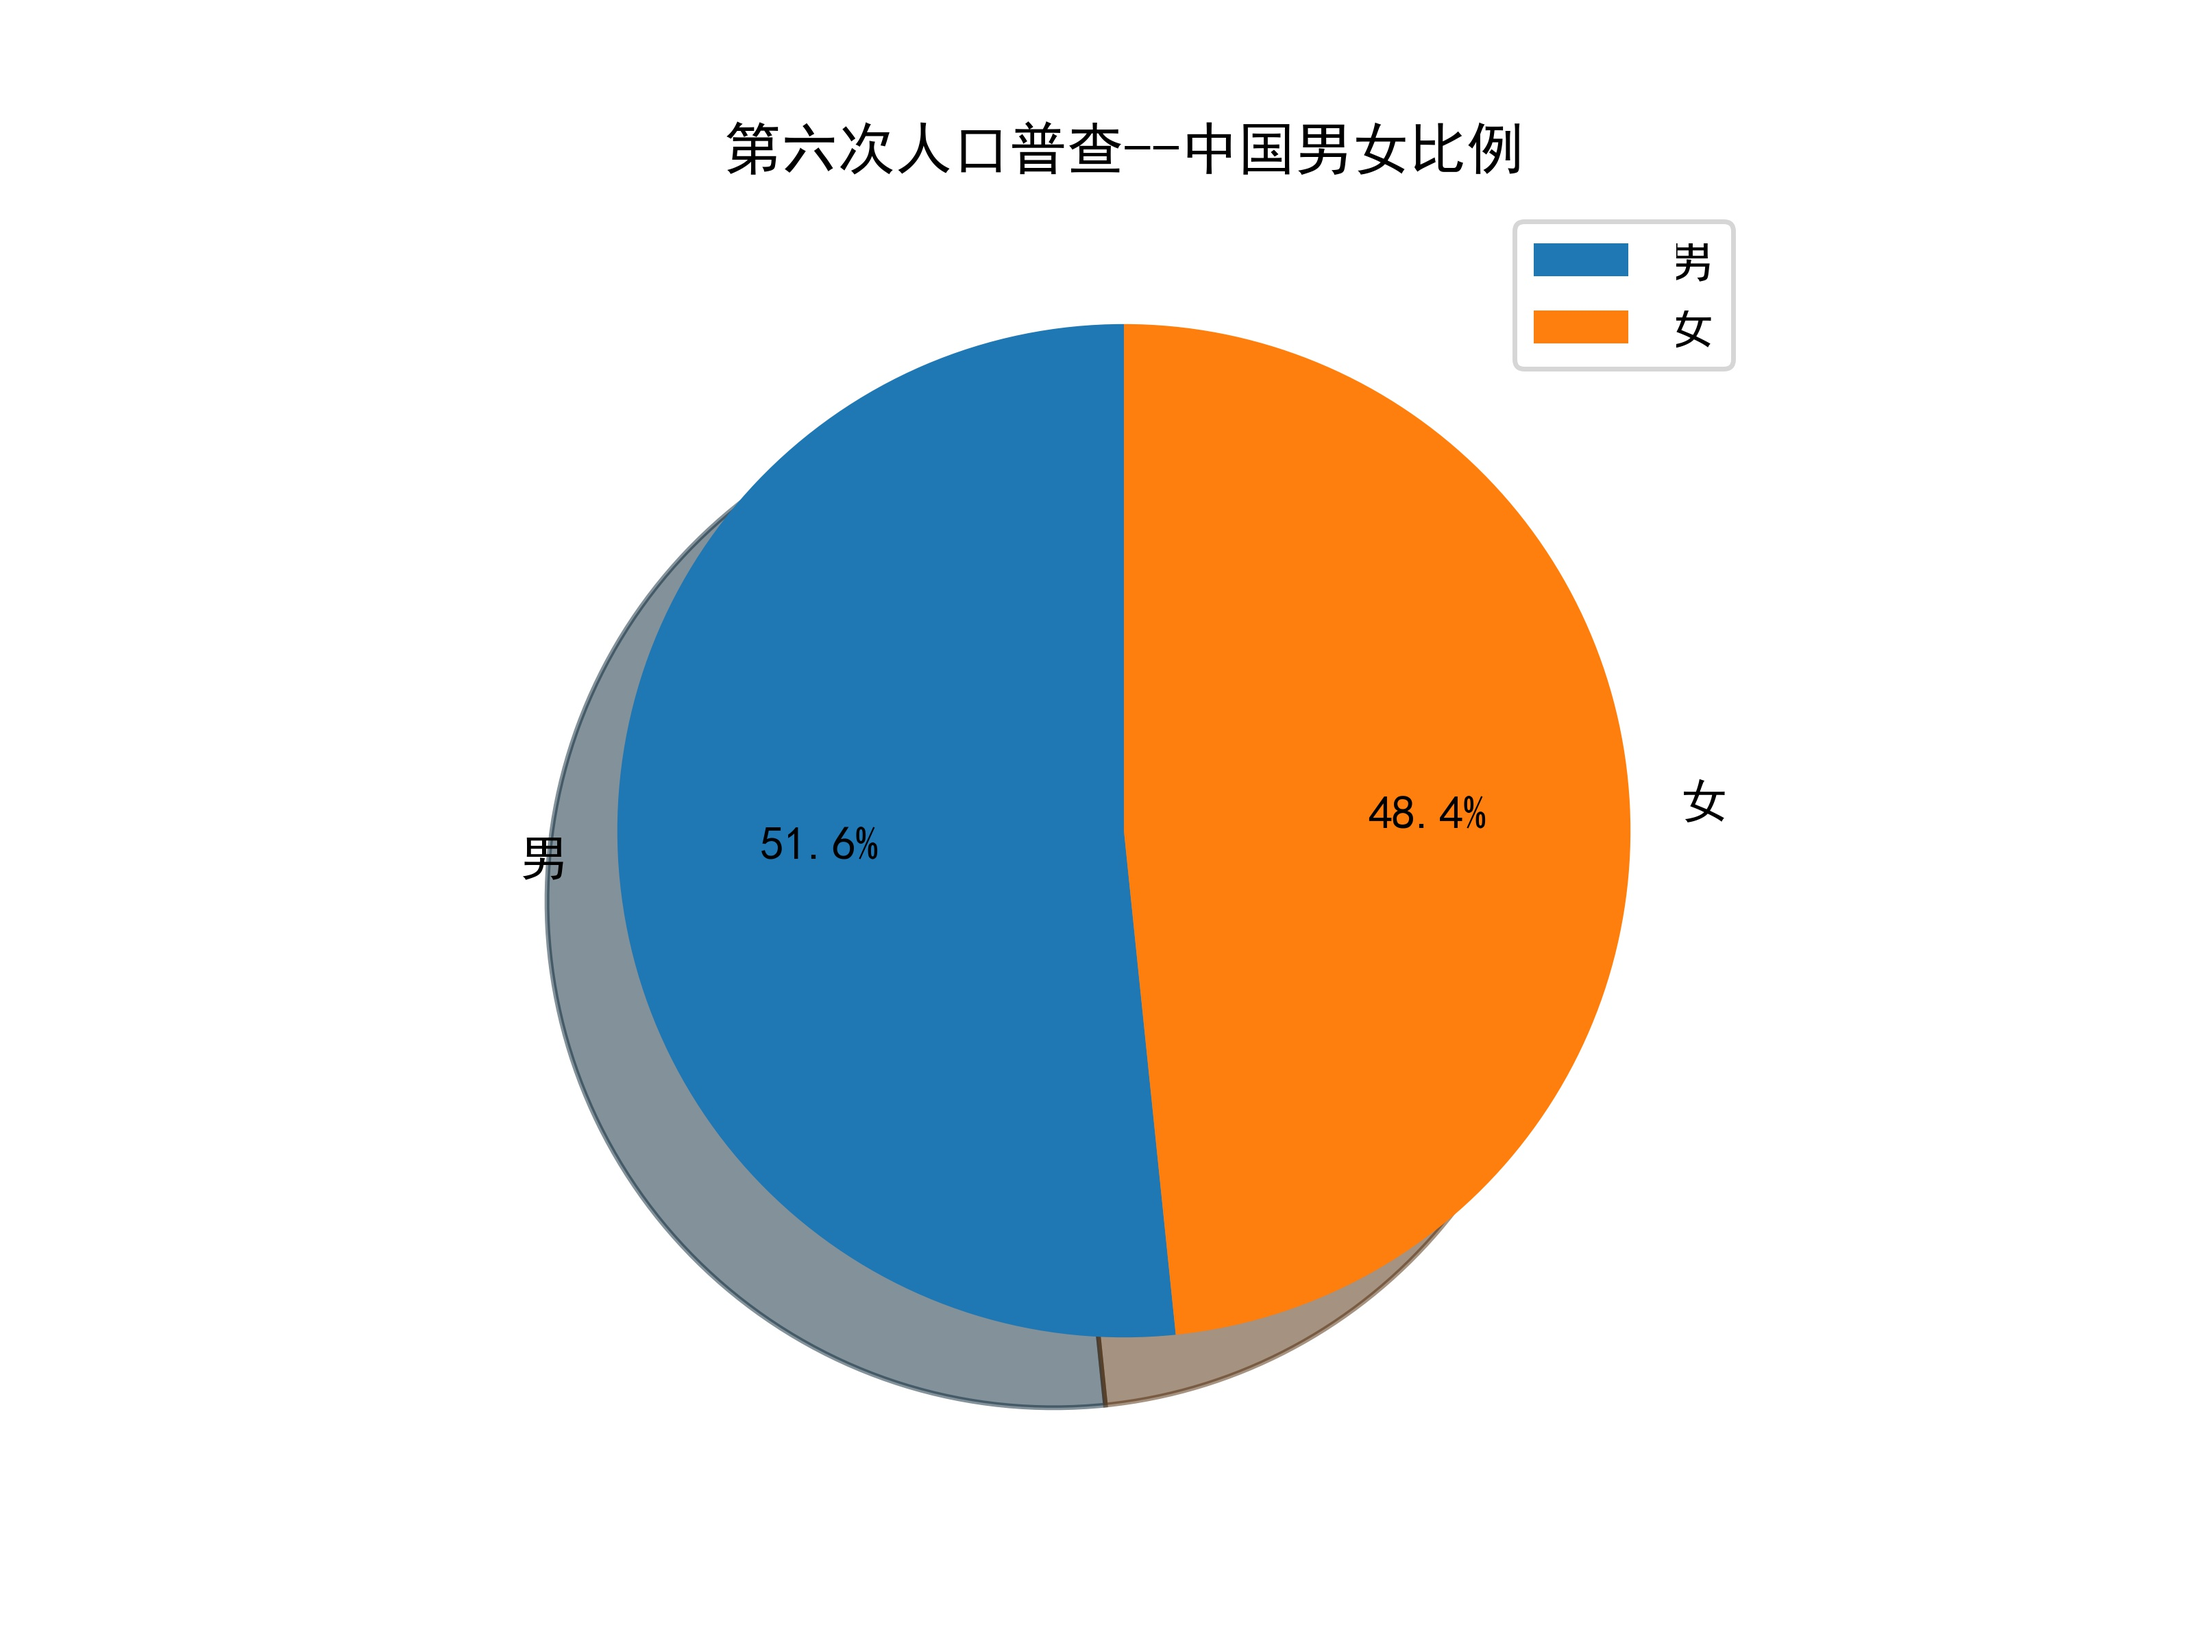
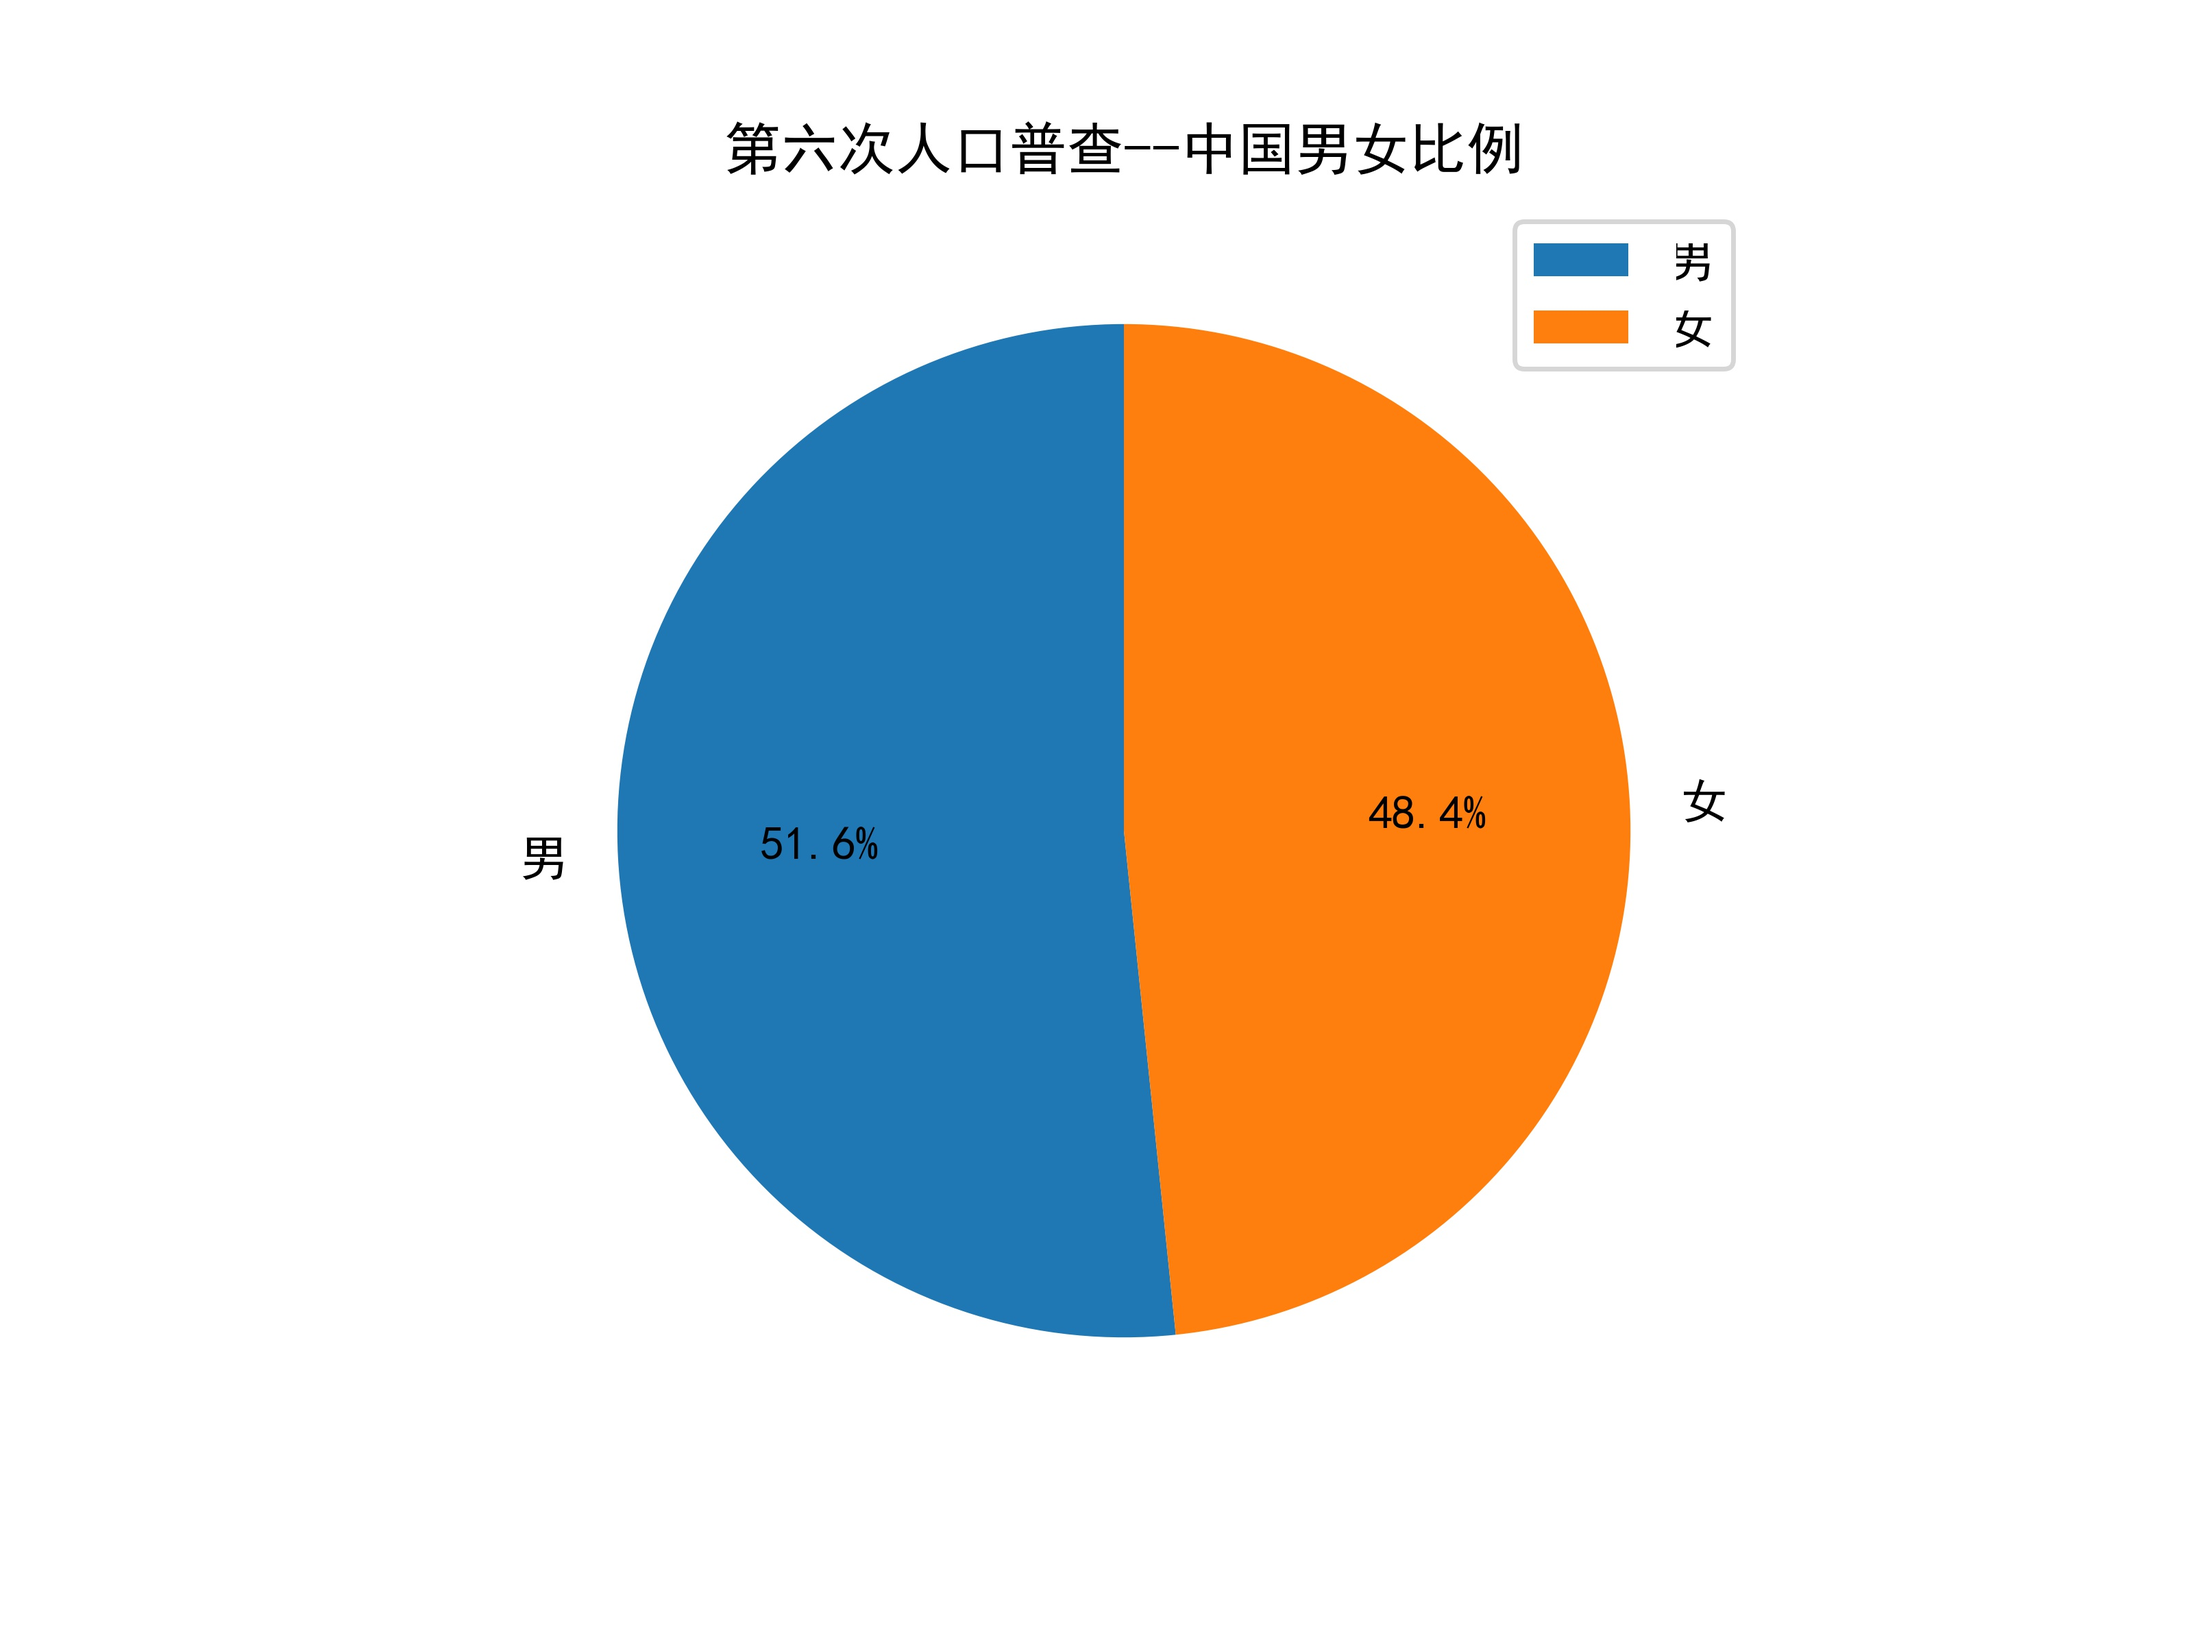
修改饼图保存bug

Changed region(s): [[0.25, 0.3438, 0.625, 0.875], [0.625, 0.75, 0.6562, 0.7812], [0.3125, 0.3125, 0.3438, 0.3438]]

diff --git a/homework.py b/homework.py
@@ -58,7 +58,7 @@ maleValues = total_popu_male[4]
 femaleValues = total_popu_female[4]
 plt.title('第六次人口普查--中国男女比例')
 plt.pie([maleValues,femaleValues],labels=['男','女'],autopct='%1.1f%%',
-        startangle=90,shadow=True)
+        startangle=90,shadow=False)
 plt.legend()
 plt.savefig('人口普查男女比例.jpg',dpi=500)
 plt.show()
